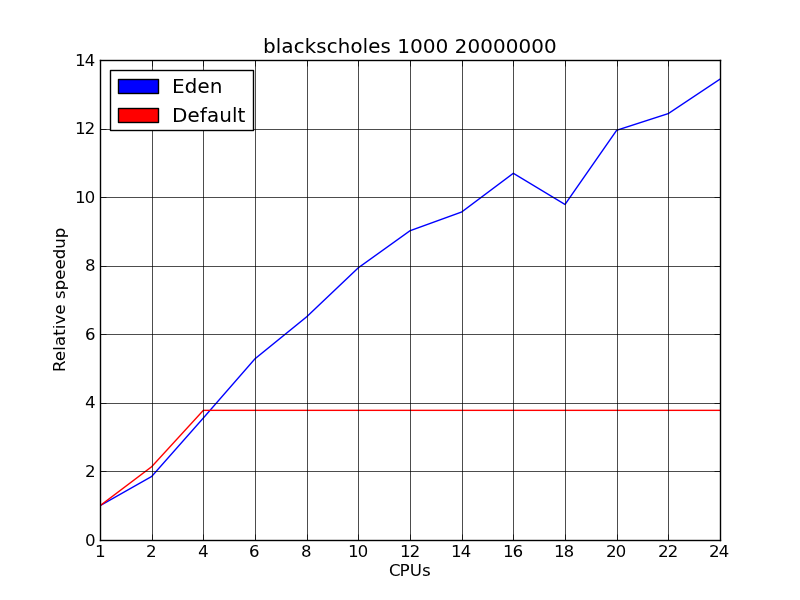
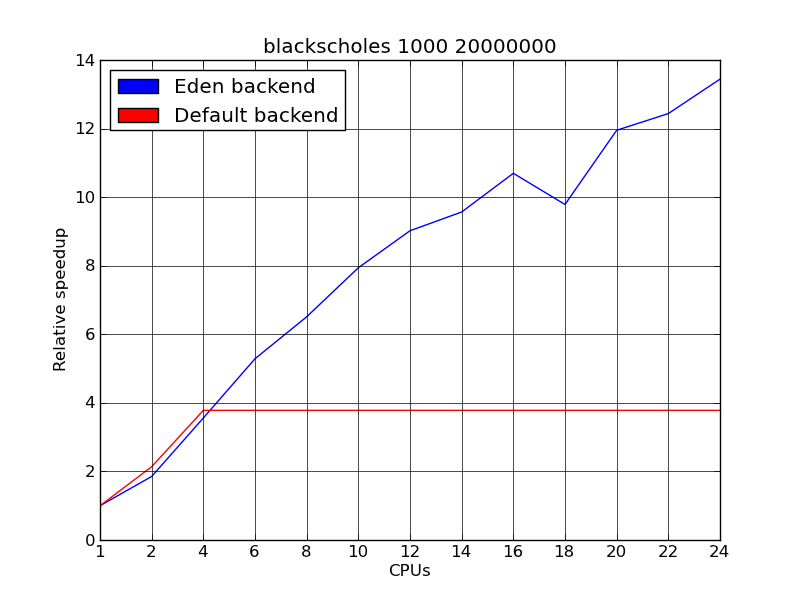
Better legend for graphs.

Changed region(s): [[0.2188, 0.09, 0.4375, 0.24]]

diff --git a/report/mkplots.py b/report/mkplots.py
@@ -49,7 +49,7 @@ for desc,timings in tests.items():
     rects1=ax.bar(ind, timingseden, width, color='b')
     rects2=ax.bar(ind+width, timingsstd, width, color='r')
 
-    ax.legend( (rects1[0], rects2[0]), ('Eden', 'Default') )
+    ax.legend( (rects1[0], rects2[0]), ('Eden backend', 'Default backend') )
     fig.savefig(desc.split(' ')[0]+"-runtimes.png")
 
     fig2 = plt.figure()
@@ -62,5 +62,5 @@ for desc,timings in tests.items():
     ax.plot(improvementseden, color='b')
     ax.plot(improvementsstd, color='r')
     ax.grid(True,which="both",ls="-")
-    ax.legend((rects1[0], rects2[0]), ('Eden', 'Default'),loc=2)
+    ax.legend((rects1[0], rects2[0]), ('Eden backend', 'Default backend'),loc=2)
     fig2.savefig(desc.split(' ')[0]+"-speedup.png")
